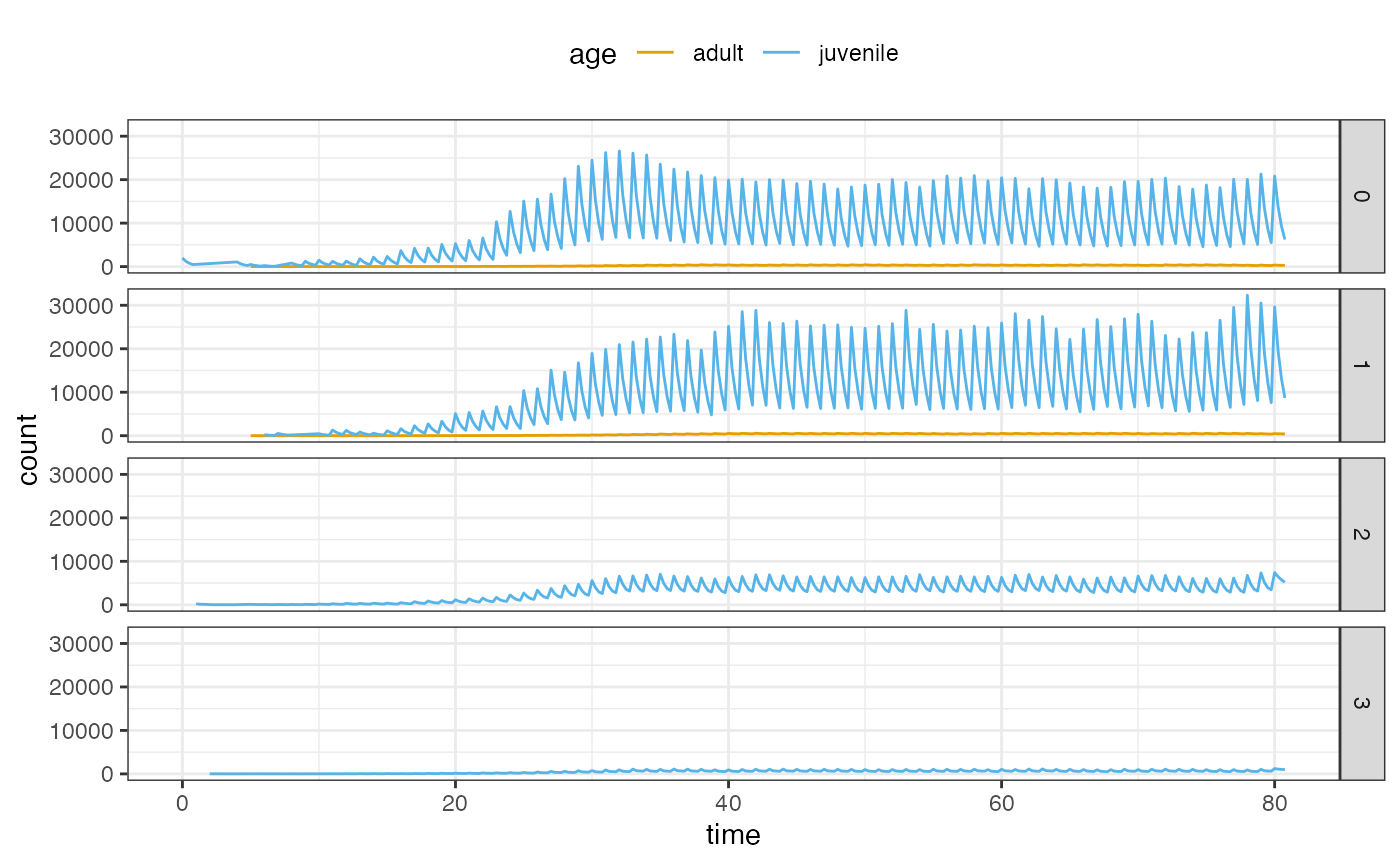
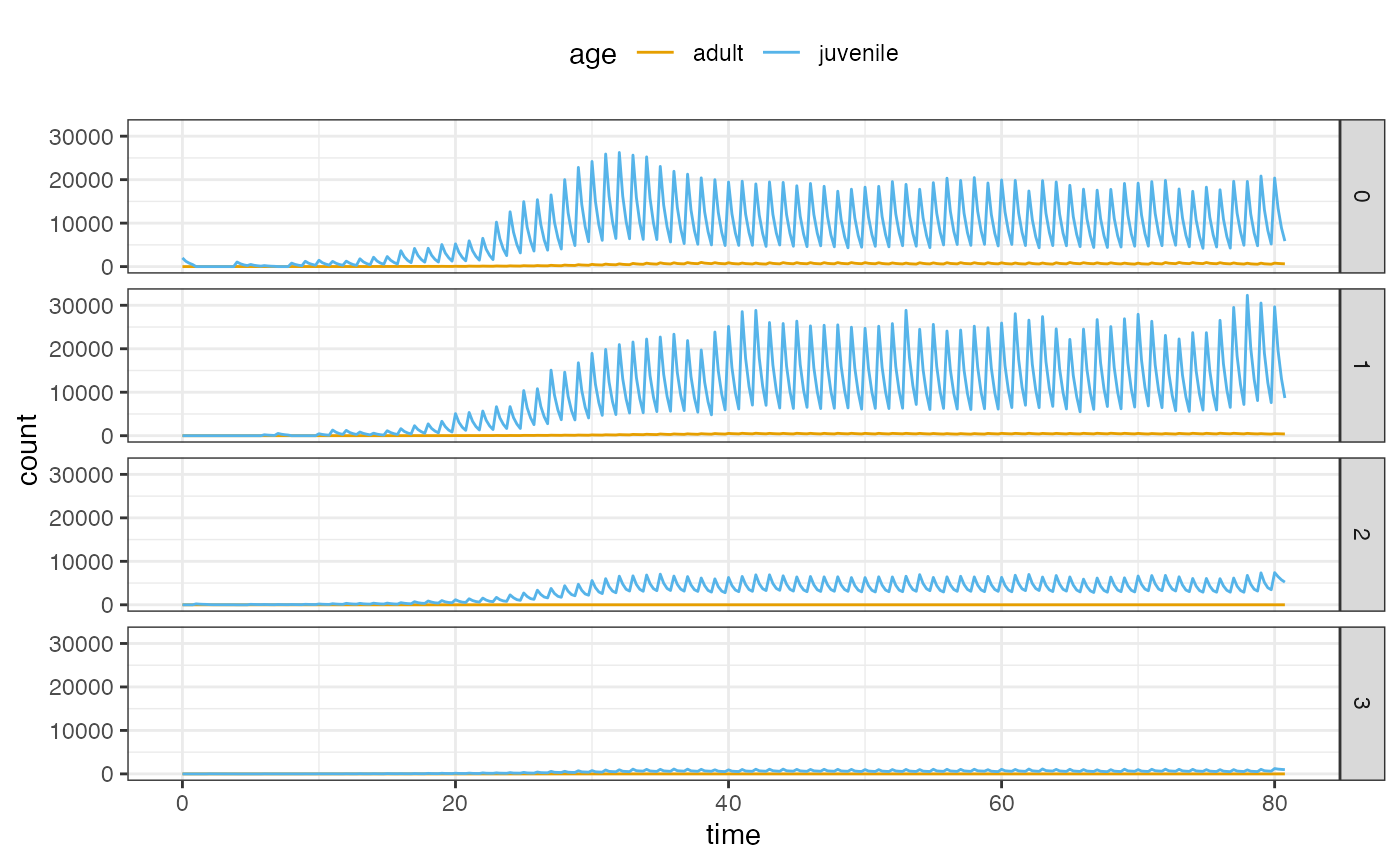
:bookmark: Bump version to 0.8.1

diff --git a/docs/articles/kinship.html b/docs/articles/kinship.html
@@ -26,7 +26,7 @@
 
     <a class="navbar-brand me-2" href="../index.html">tekkamaki</a>
 
-    <small class="nav-text text-muted me-auto" data-bs-toggle="tooltip" data-bs-placement="bottom" title="">0.8.0.1</small>
+    <small class="nav-text text-muted me-auto" data-bs-toggle="tooltip" data-bs-placement="bottom" title="">0.8.1</small>
 
 
     <button class="navbar-toggler" type="button" data-bs-toggle="collapse" data-bs-target="#navbar" aria-controls="navbar" aria-expanded="false" aria-label="Toggle navigation">
@@ -89,7 +89,7 @@
 <span><span class="co">## <span style="color: #949494;">#   years &lt;int&gt;, sample_family &lt;list&gt;, demography &lt;list&gt;</span></span></span></code></pre>
 <div class="sourceCode" id="cb4"><pre class="downlit sourceCode r">
 <code class="sourceCode R"><span><span class="va">sample_family</span> <span class="op">=</span> <span class="va">result</span><span class="op">$</span><span class="va">sample_family</span><span class="op">[[</span><span class="fl">1L</span><span class="op">]</span><span class="op">]</span> <span class="op">|&gt;</span> <span class="fu"><a href="https://rdrr.io/r/base/print.html" class="external-link">print</a></span><span class="op">(</span><span class="op">)</span></span></code></pre></div>
-<pre><code><span><span class="co">## <span style="color: #949494;"># A tibble: 7,273 × 6</span></span></span>
+<pre><code><span><span class="co">## <span style="color: #949494;"># A tibble: 7,116 × 6</span></span></span>
 <span><span class="co">##       id father_id mother_id birth_year location capture_year</span></span>
 <span><span class="co">##    <span style="color: #949494; font-style: italic;">&lt;int&gt;</span>     <span style="color: #949494; font-style: italic;">&lt;int&gt;</span>     <span style="color: #949494; font-style: italic;">&lt;int&gt;</span>      <span style="color: #949494; font-style: italic;">&lt;int&gt;</span>    <span style="color: #949494; font-style: italic;">&lt;int&gt;</span>        <span style="color: #949494; font-style: italic;">&lt;int&gt;</span></span></span>
 <span><span class="co">## <span style="color: #BCBCBC;"> 1</span>   132         0         0         -<span style="color: #BB0000;">4</span>       <span style="color: #BB0000;">NA</span>           <span style="color: #BB0000;">NA</span></span></span>
@@ -102,39 +102,39 @@
 <span><span class="co">## <span style="color: #BCBCBC;"> 8</span>   139       132       132          0       <span style="color: #BB0000;">NA</span>           <span style="color: #BB0000;">NA</span></span></span>
 <span><span class="co">## <span style="color: #BCBCBC;"> 9</span>   140       132       132          0       <span style="color: #BB0000;">NA</span>           <span style="color: #BB0000;">NA</span></span></span>
 <span><span class="co">## <span style="color: #BCBCBC;">10</span>   138       139       140          4       <span style="color: #BB0000;">NA</span>           <span style="color: #BB0000;">NA</span></span></span>
-<span><span class="co">## <span style="color: #949494;"># ℹ 7,263 more rows</span></span></span></code></pre>
+<span><span class="co">## <span style="color: #949494;"># ℹ 7,106 more rows</span></span></span></code></pre>
 <p>Extract kinship with degree≤4:</p>
 <div class="sourceCode" id="cb6"><pre class="downlit sourceCode r">
 <code class="sourceCode R"><span><span class="va">kinship</span> <span class="op">=</span> <span class="fu"><a href="../reference/kinship.html">find_kinship</a></span><span class="op">(</span><span class="va">sample_family</span>, <span class="fl">4L</span><span class="op">)</span> <span class="op">|&gt;</span> <span class="fu"><a href="https://rdrr.io/r/base/print.html" class="external-link">print</a></span><span class="op">(</span><span class="op">)</span></span></code></pre></div>
-<pre><code><span><span class="co">## <span style="color: #949494;"># A tibble: 95 × 5</span></span></span>
+<pre><code><span><span class="co">## <span style="color: #949494;"># A tibble: 93 × 5</span></span></span>
 <span><span class="co">##     from    to path   degree label</span></span>
 <span><span class="co">##    <span style="color: #949494; font-style: italic;">&lt;int&gt;</span> <span style="color: #949494; font-style: italic;">&lt;int&gt;</span> <span style="color: #949494; font-style: italic;">&lt;chr&gt;</span>   <span style="color: #949494; font-style: italic;">&lt;int&gt;</span> <span style="color: #949494; font-style: italic;">&lt;fct&gt;</span></span></span>
 <span><span class="co">## <span style="color: #BCBCBC;"> 1</span>     2    10 1100_1      4 HC   </span></span>
-<span><span class="co">## <span style="color: #BCBCBC;"> 2</span>     3    43 100_1       3 HUN  </span></span>
-<span><span class="co">## <span style="color: #BCBCBC;"> 3</span>     3    86 1100_1      4 HC   </span></span>
-<span><span class="co">## <span style="color: #BCBCBC;"> 4</span>     3    90 1100_1      4 HC   </span></span>
-<span><span class="co">## <span style="color: #BCBCBC;"> 5</span>     5    92 1100_1      4 HC   </span></span>
-<span><span class="co">## <span style="color: #BCBCBC;"> 6</span>     5   112 1100_1      4 HC   </span></span>
-<span><span class="co">## <span style="color: #BCBCBC;"> 7</span>     6   103 1100_1      4 HC   </span></span>
+<span><span class="co">## <span style="color: #BCBCBC;"> 2</span>     2   102 110_1       3 HUN  </span></span>
+<span><span class="co">## <span style="color: #BCBCBC;"> 3</span>     3    44 10_1        2 HS   </span></span>
+<span><span class="co">## <span style="color: #BCBCBC;"> 4</span>     3    86 1100_1      4 HC   </span></span>
+<span><span class="co">## <span style="color: #BCBCBC;"> 5</span>     3    90 1100_1      4 HC   </span></span>
+<span><span class="co">## <span style="color: #BCBCBC;"> 6</span>     5    92 1100_1      4 HC   </span></span>
+<span><span class="co">## <span style="color: #BCBCBC;"> 7</span>     6    43 1100_1      4 HC   </span></span>
 <span><span class="co">## <span style="color: #BCBCBC;"> 8</span>     7    79 1100_1      4 HC   </span></span>
-<span><span class="co">## <span style="color: #BCBCBC;"> 9</span>     8    23 10_1        2 HS   </span></span>
-<span><span class="co">## <span style="color: #BCBCBC;">10</span>     9    27 1100_1      4 HC   </span></span>
-<span><span class="co">## <span style="color: #949494;"># ℹ 85 more rows</span></span></span></code></pre>
+<span><span class="co">## <span style="color: #BCBCBC;"> 9</span>     7   111 1100_1      4 HC   </span></span>
+<span><span class="co">## <span style="color: #BCBCBC;">10</span>     7   113 1100_1      4 HC   </span></span>
+<span><span class="co">## <span style="color: #949494;"># ℹ 83 more rows</span></span></span></code></pre>
 <div class="sourceCode" id="cb8"><pre class="downlit sourceCode r">
 <code class="sourceCode R"><span><span class="va">kinship</span> <span class="op">|&gt;</span> <span class="fu">dplyr</span><span class="fu">::</span><span class="fu"><a href="https://dplyr.tidyverse.org/reference/count.html" class="external-link">count</a></span><span class="op">(</span><span class="va">label</span>, .drop <span class="op">=</span> <span class="cn">FALSE</span><span class="op">)</span></span></code></pre></div>
 <pre><code><span><span class="co">## <span style="color: #949494;"># A tibble: 11 × 2</span></span></span>
 <span><span class="co">##    label     n</span></span>
 <span><span class="co">##    <span style="color: #949494; font-style: italic;">&lt;fct&gt;</span> <span style="color: #949494; font-style: italic;">&lt;int&gt;</span></span></span>
-<span><span class="co">## <span style="color: #BCBCBC;"> 1</span> PO        4</span></span>
-<span><span class="co">## <span style="color: #BCBCBC;"> 2</span> HS       10</span></span>
+<span><span class="co">## <span style="color: #BCBCBC;"> 1</span> PO        1</span></span>
+<span><span class="co">## <span style="color: #BCBCBC;"> 2</span> HS       12</span></span>
 <span><span class="co">## <span style="color: #BCBCBC;"> 3</span> FS        0</span></span>
-<span><span class="co">## <span style="color: #BCBCBC;"> 4</span> GG        1</span></span>
-<span><span class="co">## <span style="color: #BCBCBC;"> 5</span> GGG       1</span></span>
-<span><span class="co">## <span style="color: #BCBCBC;"> 6</span> HUN      18</span></span>
+<span><span class="co">## <span style="color: #BCBCBC;"> 4</span> GG        2</span></span>
+<span><span class="co">## <span style="color: #BCBCBC;"> 5</span> GGG       0</span></span>
+<span><span class="co">## <span style="color: #BCBCBC;"> 6</span> HUN      19</span></span>
 <span><span class="co">## <span style="color: #BCBCBC;"> 7</span> UN        0</span></span>
-<span><span class="co">## <span style="color: #BCBCBC;"> 8</span> HC       53</span></span>
+<span><span class="co">## <span style="color: #BCBCBC;"> 8</span> HC       50</span></span>
 <span><span class="co">## <span style="color: #BCBCBC;"> 9</span> C         0</span></span>
-<span><span class="co">## <span style="color: #BCBCBC;">10</span> HGUN      8</span></span>
+<span><span class="co">## <span style="color: #BCBCBC;">10</span> HGUN      9</span></span>
 <span><span class="co">## <span style="color: #BCBCBC;">11</span> GUN       0</span></span></code></pre>
 <p>Bind other information to kinship data.frame:</p>
 <div class="sourceCode" id="cb10"><pre class="downlit sourceCode r">
@@ -161,20 +161,20 @@
 <code class="sourceCode R"><span><span class="va">kinship</span> <span class="op">|&gt;</span></span>
 <span>  <span class="fu">dplyr</span><span class="fu">::</span><span class="fu"><a href="https://dplyr.tidyverse.org/reference/mutate-joins.html" class="external-link">left_join</a></span><span class="op">(</span><span class="va">sampled</span>, by <span class="op">=</span> <span class="fu"><a href="https://rdrr.io/r/base/c.html" class="external-link">c</a></span><span class="op">(</span>from <span class="op">=</span> <span class="st">"id"</span><span class="op">)</span><span class="op">)</span> <span class="op">|&gt;</span></span>
 <span>  <span class="fu">dplyr</span><span class="fu">::</span><span class="fu"><a href="https://dplyr.tidyverse.org/reference/mutate-joins.html" class="external-link">left_join</a></span><span class="op">(</span><span class="va">sampled</span>, by <span class="op">=</span> <span class="fu"><a href="https://rdrr.io/r/base/c.html" class="external-link">c</a></span><span class="op">(</span>to <span class="op">=</span> <span class="st">"id"</span><span class="op">)</span>, suffix <span class="op">=</span> <span class="fu"><a href="https://rdrr.io/r/base/c.html" class="external-link">c</a></span><span class="op">(</span><span class="st">"_from"</span>, <span class="st">"_to"</span><span class="op">)</span><span class="op">)</span></span></code></pre></div>
-<pre><code><span><span class="co">## <span style="color: #949494;"># A tibble: 95 × 11</span></span></span>
+<pre><code><span><span class="co">## <span style="color: #949494;"># A tibble: 93 × 11</span></span></span>
 <span><span class="co">##     from    to path   degree label location_from capture_year_from age_from</span></span>
 <span><span class="co">##    <span style="color: #949494; font-style: italic;">&lt;int&gt;</span> <span style="color: #949494; font-style: italic;">&lt;int&gt;</span> <span style="color: #949494; font-style: italic;">&lt;chr&gt;</span>   <span style="color: #949494; font-style: italic;">&lt;int&gt;</span> <span style="color: #949494; font-style: italic;">&lt;fct&gt;</span>         <span style="color: #949494; font-style: italic;">&lt;int&gt;</span>             <span style="color: #949494; font-style: italic;">&lt;int&gt;</span>    <span style="color: #949494; font-style: italic;">&lt;int&gt;</span></span></span>
 <span><span class="co">## <span style="color: #BCBCBC;"> 1</span>     2    10 1100_1      4 HC                0                78        4</span></span>
-<span><span class="co">## <span style="color: #BCBCBC;"> 2</span>     3    43 100_1       3 HUN               0                78        4</span></span>
-<span><span class="co">## <span style="color: #BCBCBC;"> 3</span>     3    86 1100_1      4 HC                0                78        4</span></span>
-<span><span class="co">## <span style="color: #BCBCBC;"> 4</span>     3    90 1100_1      4 HC                0                78        4</span></span>
-<span><span class="co">## <span style="color: #BCBCBC;"> 5</span>     5    92 1100_1      4 HC                0                78        5</span></span>
-<span><span class="co">## <span style="color: #BCBCBC;"> 6</span>     5   112 1100_1      4 HC                0                78        5</span></span>
-<span><span class="co">## <span style="color: #BCBCBC;"> 7</span>     6   103 1100_1      4 HC                0                78        5</span></span>
+<span><span class="co">## <span style="color: #BCBCBC;"> 2</span>     2   102 110_1       3 HUN               0                78        4</span></span>
+<span><span class="co">## <span style="color: #BCBCBC;"> 3</span>     3    44 10_1        2 HS                0                78        4</span></span>
+<span><span class="co">## <span style="color: #BCBCBC;"> 4</span>     3    86 1100_1      4 HC                0                78        4</span></span>
+<span><span class="co">## <span style="color: #BCBCBC;"> 5</span>     3    90 1100_1      4 HC                0                78        4</span></span>
+<span><span class="co">## <span style="color: #BCBCBC;"> 6</span>     5    92 1100_1      4 HC                0                78        5</span></span>
+<span><span class="co">## <span style="color: #BCBCBC;"> 7</span>     6    43 1100_1      4 HC                0                78        5</span></span>
 <span><span class="co">## <span style="color: #BCBCBC;"> 8</span>     7    79 1100_1      4 HC                0                78        6</span></span>
-<span><span class="co">## <span style="color: #BCBCBC;"> 9</span>     8    23 10_1        2 HS                0                78        5</span></span>
-<span><span class="co">## <span style="color: #BCBCBC;">10</span>     9    27 1100_1      4 HC                0                78        5</span></span>
-<span><span class="co">## <span style="color: #949494;"># ℹ 85 more rows</span></span></span>
+<span><span class="co">## <span style="color: #BCBCBC;"> 9</span>     7   111 1100_1      4 HC                0                78        6</span></span>
+<span><span class="co">## <span style="color: #BCBCBC;">10</span>     7   113 1100_1      4 HC                0                78        6</span></span>
+<span><span class="co">## <span style="color: #949494;"># ℹ 83 more rows</span></span></span>
 <span><span class="co">## <span style="color: #949494;"># ℹ 3 more variables: location_to &lt;int&gt;, capture_year_to &lt;int&gt;, age_to &lt;int&gt;</span></span></span></code></pre>
   </main>
 </div>

diff --git a/docs/articles/tekkamaki.html b/docs/articles/tekkamaki.html
@@ -26,7 +26,7 @@
 
     <a class="navbar-brand me-2" href="../index.html">tekkamaki</a>
 
-    <small class="nav-text text-muted me-auto" data-bs-toggle="tooltip" data-bs-placement="bottom" title="">0.8.0.1</small>
+    <small class="nav-text text-muted me-auto" data-bs-toggle="tooltip" data-bs-placement="bottom" title="">0.8.1</small>
 
 
     <button class="navbar-toggler" type="button" data-bs-toggle="collapse" data-bs-target="#navbar" aria-controls="navbar" aria-expanded="false" aria-label="Toggle navigation">
@@ -117,7 +117,7 @@
 <code class="sourceCode R"><span><span class="va">demography</span> <span class="op">=</span> <span class="va">result</span><span class="op">$</span><span class="va">demography</span><span class="op">[[</span><span class="fl">1L</span><span class="op">]</span><span class="op">]</span> <span class="op">|&gt;</span> <span class="fu"><a href="https://rdrr.io/r/base/print.html" class="external-link">print</a></span><span class="op">(</span><span class="op">)</span></span></code></pre></div>
 <pre><code><span><span class="co">## <span style="color: #949494;"># A tibble: 6,784 × 5</span></span></span>
 <span><span class="co">##     year season location   age count</span></span>
-<span><span class="co">##    <span style="color: #949494; font-style: italic;">&lt;dbl&gt;</span>  <span style="color: #949494; font-style: italic;">&lt;dbl&gt;</span>    <span style="color: #949494; font-style: italic;">&lt;dbl&gt;</span> <span style="color: #949494; font-style: italic;">&lt;dbl&gt;</span> <span style="color: #949494; font-style: italic;">&lt;dbl&gt;</span></span></span>
+<span><span class="co">##    <span style="color: #949494; font-style: italic;">&lt;int&gt;</span>  <span style="color: #949494; font-style: italic;">&lt;int&gt;</span>    <span style="color: #949494; font-style: italic;">&lt;int&gt;</span> <span style="color: #949494; font-style: italic;">&lt;int&gt;</span> <span style="color: #949494; font-style: italic;">&lt;int&gt;</span></span></span>
 <span><span class="co">## <span style="color: #BCBCBC;"> 1</span>     0      0        0     0  <span style="text-decoration: underline;">2</span>000</span></span>
 <span><span class="co">## <span style="color: #BCBCBC;"> 2</span>     0      1        0     0  <span style="text-decoration: underline;">1</span>220</span></span>
 <span><span class="co">## <span style="color: #BCBCBC;"> 3</span>     0      2        0     0   788</span></span>
@@ -133,8 +133,9 @@
 <div class="sourceCode" id="cb8"><pre class="downlit sourceCode r">
 <code class="sourceCode R"><span><span class="va">df</span> <span class="op">=</span> <span class="va">demography</span> <span class="op">|&gt;</span></span>
 <span>  <span class="fu">dplyr</span><span class="fu">::</span><span class="fu"><a href="https://dplyr.tidyverse.org/reference/mutate.html" class="external-link">mutate</a></span><span class="op">(</span>time <span class="op">=</span> <span class="va">year</span> <span class="op">+</span> <span class="fl">0.25</span> <span class="op">*</span> <span class="va">season</span><span class="op">)</span> <span class="op">|&gt;</span></span>
-<span>  <span class="fu">dplyr</span><span class="fu">::</span><span class="fu"><a href="https://dplyr.tidyverse.org/reference/mutate.html" class="external-link">mutate</a></span><span class="op">(</span>age <span class="op">=</span> <span class="fu"><a href="https://rdrr.io/r/base/ifelse.html" class="external-link">ifelse</a></span><span class="op">(</span><span class="va">age</span> <span class="op">&gt;</span> <span class="fl">4</span>, <span class="st">"adult"</span>, <span class="st">"juvenile"</span><span class="op">)</span><span class="op">)</span> <span class="op">|&gt;</span></span>
-<span>  <span class="fu">dplyr</span><span class="fu">::</span><span class="fu"><a href="https://dplyr.tidyverse.org/reference/summarise.html" class="external-link">summarize</a></span><span class="op">(</span>count <span class="op">=</span> <span class="fu"><a href="https://rdrr.io/r/base/sum.html" class="external-link">sum</a></span><span class="op">(</span><span class="va">count</span><span class="op">)</span>, .by <span class="op">=</span> <span class="fu"><a href="https://rdrr.io/r/base/c.html" class="external-link">c</a></span><span class="op">(</span><span class="va">time</span>, <span class="va">location</span>, <span class="va">age</span><span class="op">)</span><span class="op">)</span></span>
+<span>  <span class="fu">dplyr</span><span class="fu">::</span><span class="fu"><a href="https://dplyr.tidyverse.org/reference/mutate.html" class="external-link">mutate</a></span><span class="op">(</span>age <span class="op">=</span> <span class="fu"><a href="https://rdrr.io/r/base/ifelse.html" class="external-link">ifelse</a></span><span class="op">(</span><span class="va">age</span> <span class="op">&gt;=</span> <span class="fl">4</span>, <span class="st">"adult"</span>, <span class="st">"juvenile"</span><span class="op">)</span><span class="op">)</span> <span class="op">|&gt;</span></span>
+<span>  <span class="fu">dplyr</span><span class="fu">::</span><span class="fu"><a href="https://dplyr.tidyverse.org/reference/summarise.html" class="external-link">summarize</a></span><span class="op">(</span>count <span class="op">=</span> <span class="fu"><a href="https://rdrr.io/r/base/sum.html" class="external-link">sum</a></span><span class="op">(</span><span class="va">count</span><span class="op">)</span>, .by <span class="op">=</span> <span class="fu"><a href="https://rdrr.io/r/base/c.html" class="external-link">c</a></span><span class="op">(</span><span class="va">time</span>, <span class="va">location</span>, <span class="va">age</span><span class="op">)</span><span class="op">)</span> <span class="op">|&gt;</span></span>
+<span>  <span class="fu">tidyr</span><span class="fu">::</span><span class="fu"><a href="https://tidyr.tidyverse.org/reference/complete.html" class="external-link">complete</a></span><span class="op">(</span><span class="va">time</span>, <span class="va">location</span>, <span class="va">age</span>, fill <span class="op">=</span> <span class="fu"><a href="https://rdrr.io/r/base/list.html" class="external-link">list</a></span><span class="op">(</span>count <span class="op">=</span> <span class="fl">0L</span><span class="op">)</span><span class="op">)</span></span>
 <span></span>
 <span><span class="fu"><a href="https://ggplot2.tidyverse.org/reference/ggplot.html" class="external-link">ggplot</a></span><span class="op">(</span><span class="va">df</span><span class="op">)</span> <span class="op">+</span></span>
 <span>  <span class="fu"><a href="https://ggplot2.tidyverse.org/reference/aes.html" class="external-link">aes</a></span><span class="op">(</span><span class="va">time</span>, <span class="va">count</span><span class="op">)</span> <span class="op">+</span></span>

diff --git a/docs/authors.html b/docs/authors.html
@@ -7,7 +7,7 @@
 
     <a class="navbar-brand me-2" href="index.html">tekkamaki</a>
 
-    <small class="nav-text text-muted me-auto" data-bs-toggle="tooltip" data-bs-placement="bottom" title="">0.8.0.1</small>
+    <small class="nav-text text-muted me-auto" data-bs-toggle="tooltip" data-bs-placement="bottom" title="">0.8.1</small>
 
 
     <button class="navbar-toggler" type="button" data-bs-toggle="collapse" data-bs-target="#navbar" aria-controls="navbar" aria-expanded="false" aria-label="Toggle navigation">
@@ -50,13 +50,13 @@
 
       <p>Iwasaki W (2025).
 <em>tekkamaki: Individual-based simulator of pacific bluefin tuna</em>.
-R package version 0.8.0.1, <a href="https://heavywatal.github.io/tekkamaki/">https://heavywatal.github.io/tekkamaki/</a>.
+R package version 0.8.1, <a href="https://heavywatal.github.io/tekkamaki/">https://heavywatal.github.io/tekkamaki/</a>.
 </p>
       <pre>@Manual{,
   title = {tekkamaki: Individual-based simulator of pacific bluefin tuna},
   author = {Watal M. Iwasaki},
   year = {2025},
-  note = {R package version 0.8.0.1},
+  note = {R package version 0.8.1},
   url = {https://heavywatal.github.io/tekkamaki/},
 }</pre>
     </div>

diff --git a/docs/index.html b/docs/index.html
@@ -29,7 +29,7 @@
 
     <a class="navbar-brand me-2" href="index.html">tekkamaki</a>
 
-    <small class="nav-text text-muted me-auto" data-bs-toggle="tooltip" data-bs-placement="bottom" title="">0.8.0.1</small>
+    <small class="nav-text text-muted me-auto" data-bs-toggle="tooltip" data-bs-placement="bottom" title="">0.8.1</small>
 
 
     <button class="navbar-toggler" type="button" data-bs-toggle="collapse" data-bs-target="#navbar" aria-controls="navbar" aria-expanded="false" aria-label="Toggle navigation">
@@ -74,7 +74,7 @@
 <li>Unix-like OS (macOS, Linux, etc.)</li>
 <li>C++17 compiler (clang++ &gt;= Apple LLVM 12, g++ &gt;= 8)</li>
 <li>
-<a href="https://cmake.org/" class="external-link">CMake</a> (&gt;= 3.15.0)</li>
+<a href="https://cmake.org/" class="external-link">CMake</a> (&gt;= 3.18.0)</li>
 </ul>
 </div>
 <div class="section level2">

diff --git a/docs/reference/pop.html b/docs/reference/pop.html
@@ -11,7 +11,7 @@ Adults are included in potential offspring."><meta property="og:image" content="
 
     <a class="navbar-brand me-2" href="../index.html">tekkamaki</a>
 
-    <small class="nav-text text-muted me-auto" data-bs-toggle="tooltip" data-bs-placement="bottom" title="">0.8.0.1</small>
+    <small class="nav-text text-muted me-auto" data-bs-toggle="tooltip" data-bs-placement="bottom" title="">0.8.1</small>
 
 
     <button class="navbar-toggler" type="button" data-bs-toggle="collapse" data-bs-target="#navbar" aria-controls="navbar" aria-expanded="false" aria-label="Toggle navigation">

diff --git a/docs/reference/tekka.html b/docs/reference/tekka.html
@@ -13,7 +13,7 @@ it is read without calling tekka."><meta property="og:image" content="https://he
 
     <a class="navbar-brand me-2" href="../index.html">tekkamaki</a>
 
-    <small class="nav-text text-muted me-auto" data-bs-toggle="tooltip" data-bs-placement="bottom" title="">0.8.0.1</small>
+    <small class="nav-text text-muted me-auto" data-bs-toggle="tooltip" data-bs-placement="bottom" title="">0.8.1</small>
 
 
     <button class="navbar-toggler" type="button" data-bs-toggle="collapse" data-bs-target="#navbar" aria-controls="navbar" aria-expanded="false" aria-label="Toggle navigation">

diff --git a/docs/reference/hsp.html b/docs/reference/hsp.html
@@ -9,7 +9,7 @@ sampled location."><meta property="og:image" content="https://heavywatal.github.
 
     <a class="navbar-brand me-2" href="../index.html">tekkamaki</a>
 
-    <small class="nav-text text-muted me-auto" data-bs-toggle="tooltip" data-bs-placement="bottom" title="">0.8.0.1</small>
+    <small class="nav-text text-muted me-auto" data-bs-toggle="tooltip" data-bs-placement="bottom" title="">0.8.1</small>
 
 
     <button class="navbar-toggler" type="button" data-bs-toggle="collapse" data-bs-target="#navbar" aria-controls="navbar" aria-expanded="false" aria-label="Toggle navigation">

diff --git a/docs/404.html b/docs/404.html
@@ -27,7 +27,7 @@
 
     <a class="navbar-brand me-2" href="https://heavywatal.github.io/tekkamaki/index.html">tekkamaki</a>
 
-    <small class="nav-text text-muted me-auto" data-bs-toggle="tooltip" data-bs-placement="bottom" title="">0.8.0.1</small>
+    <small class="nav-text text-muted me-auto" data-bs-toggle="tooltip" data-bs-placement="bottom" title="">0.8.1</small>
 
 
     <button class="navbar-toggler" type="button" data-bs-toggle="collapse" data-bs-target="#navbar" aria-controls="navbar" aria-expanded="false" aria-label="Toggle navigation">

diff --git a/docs/reference/reexports.html b/docs/reference/reexports.html
@@ -29,7 +29,7 @@ as_igraph
 
     <a class="navbar-brand me-2" href="../index.html">tekkamaki</a>
 
-    <small class="nav-text text-muted me-auto" data-bs-toggle="tooltip" data-bs-placement="bottom" title="">0.8.0.1</small>
+    <small class="nav-text text-muted me-auto" data-bs-toggle="tooltip" data-bs-placement="bottom" title="">0.8.1</small>
 
 
     <button class="navbar-toggler" type="button" data-bs-toggle="collapse" data-bs-target="#navbar" aria-controls="navbar" aria-expanded="false" aria-label="Toggle navigation">

diff --git a/docs/articles/snp.html b/docs/articles/snp.html
@@ -26,7 +26,7 @@
 
     <a class="navbar-brand me-2" href="../index.html">tekkamaki</a>
 
-    <small class="nav-text text-muted me-auto" data-bs-toggle="tooltip" data-bs-placement="bottom" title="">0.8.0.1</small>
+    <small class="nav-text text-muted me-auto" data-bs-toggle="tooltip" data-bs-placement="bottom" title="">0.8.1</small>
 
 
     <button class="navbar-toggler" type="button" data-bs-toggle="collapse" data-bs-target="#navbar" aria-controls="navbar" aria-expanded="false" aria-label="Toggle navigation">

diff --git a/docs/articles/index.html b/docs/articles/index.html
@@ -7,7 +7,7 @@
 
     <a class="navbar-brand me-2" href="../index.html">tekkamaki</a>
 
-    <small class="nav-text text-muted me-auto" data-bs-toggle="tooltip" data-bs-placement="bottom" title="">0.8.0.1</small>
+    <small class="nav-text text-muted me-auto" data-bs-toggle="tooltip" data-bs-placement="bottom" title="">0.8.1</small>
 
 
     <button class="navbar-toggler" type="button" data-bs-toggle="collapse" data-bs-target="#navbar" aria-controls="navbar" aria-expanded="false" aria-label="Toggle navigation">

diff --git a/docs/reference/genealogy.html b/docs/reference/genealogy.html
@@ -7,7 +7,7 @@
 
     <a class="navbar-brand me-2" href="../index.html">tekkamaki</a>
 
-    <small class="nav-text text-muted me-auto" data-bs-toggle="tooltip" data-bs-placement="bottom" title="">0.8.0.1</small>
+    <small class="nav-text text-muted me-auto" data-bs-toggle="tooltip" data-bs-placement="bottom" title="">0.8.1</small>
 
 
     <button class="navbar-toggler" type="button" data-bs-toggle="collapse" data-bs-target="#navbar" aria-controls="navbar" aria-expanded="false" aria-label="Toggle navigation">
